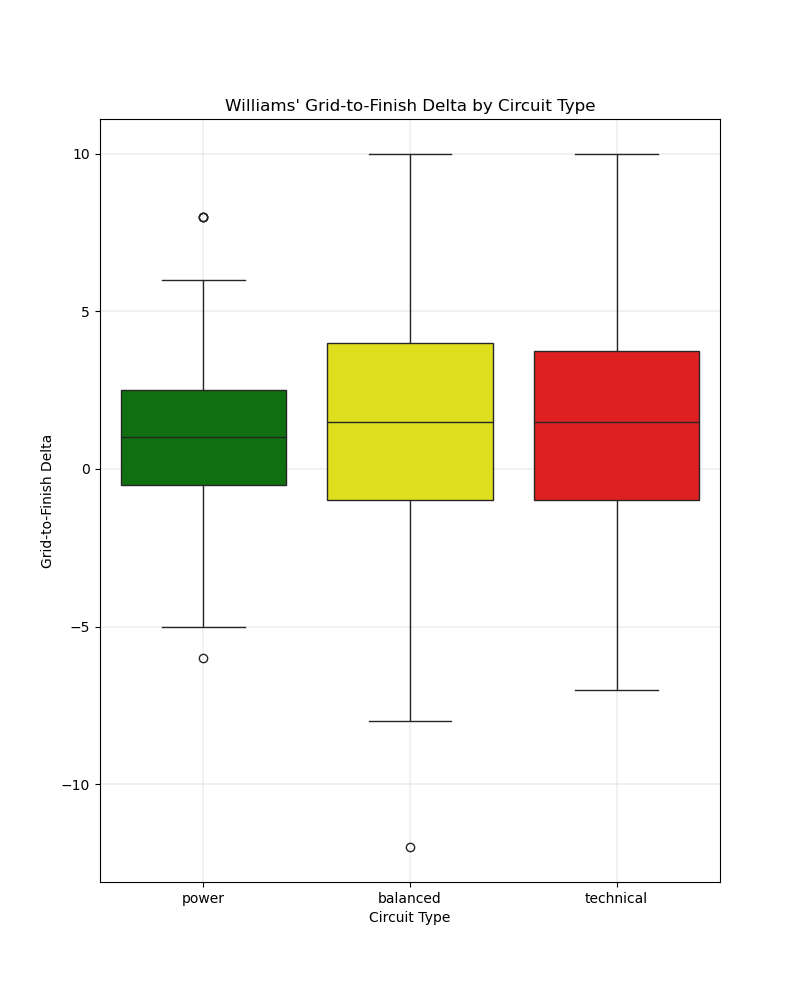
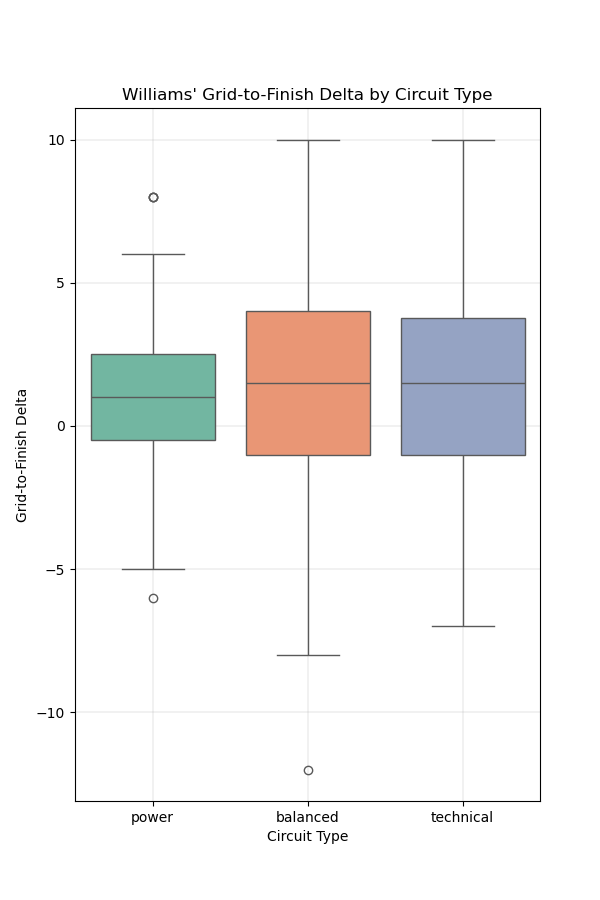
add initial eda and hypothesis tests for kpi 2

diff --git a/src/analysis2.py b/src/analysis2.py
@@ -1,6 +1,298 @@
 # load dataset used in kpi 2.1
 import pandas as pd
+import matplotlib.pyplot as plt
+import seaborn as sns
+from scipy.stats import mannwhitneyu
 
 df = pd.read_csv("/Users/frankdong/Documents/Analytics Local/williams-racing-strategies/processed_data/williams-deltas-by-sector-type.csv")
 
-print(df.head())
+print(df)
+
+"""
+EDA - let the data speak for itself through visualisations. 
+Get to know the data both visually and statistically, lay the groundwork for analysis and hypothesis testing.
+
+1. Start with core, rough visualisations. 
+Histograms, boxplots, violin plots, scatterplots, barplots.  
+
+2. Save all interesting "candidate" plots, output and save by exporting as PNG for review.
+Plots may reveal surprising outliers, odd clusters, or clear trends
+
+3. Annotate and document observations in Markdown
+Write brief markdown notes next to each PNG. Note patterns, anomalies, large/small group sizes, etc.
+
+4. Identify outliers, check sample sizes, assess normality. 
+Key for hypothesis testing - boxplots and histograms help spot outliers and skew.
+Check sample sizes with .groupby() or .value_counts() - are all groups (teams, circuits, years) large enough for statistical tests?
+
+5. Iterate and refine - select the most informative charts for polish, annotation, and inclusion in Tableau
+
+"""
+
+# -------- Steps 1, 2, 3. Rough vizs, save plots, annotate observations --------
+
+# -------------------- 1: Delta boxplot of grid delta by sector ------------------
+
+# set up new figure and size - taller boxplot helps compare heights 
+plt.figure(figsize=(9, 9))
+
+# create boxplot
+sector_delta_boxplot = sns.boxplot(
+    x = 'sector_type', 
+    y = 'sector_delta', 
+    data = df, 
+    hue = 'sector_type', 
+    palette = 'Set2', # unbiased colour set for boxplot visualisation
+    order = ['power', 'balanced', 'technical'] # order the boxes this way
+)
+
+# set title, xlabel and ylable
+sector_delta_boxplot.set_title("Williams' Qualifying Deficit to Midfield Fastest by Sector Type (Time, 2018-2019)")
+sector_delta_boxplot.set_xlabel('Sector Type')
+sector_delta_boxplot.set_ylabel('Time Deficit to Midfield Fastest (seconds)')
+
+plt.grid(linewidth = 0.25)
+plt.show()
+
+"""
+A boxplot summarizes how Williams' qualifying sector deficits—time lost 
+versus the fastest midfield team—are distributed across different sector types.
+The box captures the middle 50% of performances (the interquartile range, or IQR), 
+while the median line indicates the typical time lost for each sector type.
+Whiskers extend to include most other values, and any dots (if present) represent outlying results.
+
+Power sectors show the smallest and most consistent qualifying deficits, 
+with a tight range and a median around 0.45 seconds.
+
+Technical sectors have the second largest median deficit (about 0.6s) and the widest range, 
+highlighting differing performance outcomes and potentially greater setup challenges.
+
+Balanced sectors surprisingly display the largest variability and maximum time lost (up to ~1.4s). 
+This could reflect subjective labeling of sector types or underline William' particular struggles 
+to find the optimal balance between top speed and downforce.
+
+No outliers present. 
+"""
+
+# ------------------ 2. Percentage delta boxplot by sector ----------------
+
+# set up new figure 
+plt.figure(figsize=(9, 9))
+
+# create boxplot
+sector_percentage_delta_boxplot = sns.boxplot(
+    x = 'sector_type', 
+    y = 'pct_slower', 
+    data = df, 
+    hue = 'sector_type', 
+    palette = 'Set2', # unbiased colour set for boxplot visualisation
+    order = ['power', 'balanced', 'technical'] # order the boxes this way
+)
+
+# set title, xlabel and ylable
+sector_percentage_delta_boxplot.set_title("Williams' Qualifying Deficit to Midfield Fastest by Sector Type (%, 2018-2019)")
+sector_percentage_delta_boxplot.set_xlabel('Sector Type')
+sector_percentage_delta_boxplot.set_ylabel('% Slower to Midfield Fastest')
+
+plt.grid(linewidth = 0.25)
+plt.show()
+
+"""
+This boxplot compares qualifying sector times in relative terms compared to the fastest 
+midfield team, offering an additional perspective on where and how competitive gaps open up.
+
+Power sectors again show the smallest median relative deficit (~2%) and the tightest IQR.
+
+There is noticeable relative variability in power sectors, spanning a wide range, and an
+outlier around 4.46%. This should be kept in mind when interpreting test results or considering data cleaning.
+
+Balanced sectors now exhibit less volatility in relative terms compared to absolute times, 
+with a consistently narrow band of percentage deficits. 
+
+Technical sectors demonstrate the largest variability within the IQR. However, the gap is capped at approximately +3.5%, 
+and, in encouraging moments, Williams nearly matches the fastest midfield team with a minimum deficit near +0.15%.
+"""
+
+"""
+Both charts confirm power sectors are Williams' comparative stronghold, with the smallest
+and most stable time losses. 
+
+Technical and balanced sectors introduce greater unpredictability, and at times, larger
+performance gaps - possibly pointing to either difficulties in setup or sector labelling. 
+"""
+
+# ---------------- 3. Histograms to check for normality - absolute -----------------
+
+# plot a grid of histograms, with each of the three representing the sector type
+grid = sns.FacetGrid(
+    df, 
+    col = 'sector_type', 
+    col_order = ['power', 'balanced', 'technical'],
+    sharex = True, sharey = True, 
+    height = 4, aspect = 1
+)
+grid.map(
+    sns.histplot, 
+    'sector_delta', 
+    kde=True, 
+    stat='density', 
+    bins=15, 
+    color='royalblue'
+)
+
+# annotate counts to each plot on the grid
+for ax, sector in zip(grid.axes.flat, ['power', 'balanced', 'technical']):
+    n = df[df['sector_type'] == sector].shape[0]
+    ax.text(0.95, 0.95, f'n = {n}', ha='right', va='top', transform=ax.transAxes,
+            fontsize=12, bbox=dict(boxstyle='round', alpha=0.2))
+    ax.set_xlabel('Time Deficit (s)')
+    ax.set_ylabel('Density')
+    ax.set_title(f'{sector.capitalize()} Sectors')
+
+plt.suptitle("Williams' Sector Delta Distributions by Sector Type (s)", y=1.08, fontsize=16)
+plt.tight_layout()
+plt.show()
+
+# ------------------ 4. Histograms to check for normality - relative -------------------
+
+# plot a grid of histograms, with each of the three representing the sector type
+grid = sns.FacetGrid(
+    df, 
+    col = 'sector_type', 
+    col_order = ['power', 'balanced', 'technical'],
+    sharex = True, sharey = True, 
+    height = 4, aspect = 1
+)
+grid.map(
+    sns.histplot, 
+    'pct_slower', 
+    kde=True, 
+    stat='density', 
+    bins=15, 
+    color='royalblue'
+)
+
+# annotate counts to each plot on the grid
+for ax, sector in zip(grid.axes.flat, ['power', 'balanced', 'technical']):
+    n = df[df['sector_type'] == sector].shape[0]
+    ax.text(0.95, 0.95, f'n = {n}', ha='right', va='top', transform=ax.transAxes,
+            fontsize=12, bbox=dict(boxstyle='round', alpha=0.2))
+    ax.set_xlabel('Percent Slower (%)')
+    ax.set_ylabel('Density')
+    ax.set_title(f'{sector.capitalize()} Sectors')
+
+plt.suptitle("Williams' Sector Delta Distributions by Sector Type (%)", y=1.08, fontsize=16)
+plt.tight_layout()
+plt.show()
+
+
+"""
+For both plots, 
+    -> Sample Size: (P: 21, B: 17, T: 16). 
+        Since none exceed n = 30, we cannot rely on the Central Limit Theorem to justify
+        standard parametric tests like the t-test.
+    -> Outliers: 
+        No obvious outliers present in the first grid. 
+        Technical sectors in the second '% relative' plot seems skewed by a denser x = +3.4%.
+    -> Shape: 
+        All three sector types show some skew and multimodal patterns. 
+        Especially for balanced and technical sectors, distributions don't follow typical, 
+        classic bell-curve shapes. 
+
+Conclusion: 
+-> Mann-Whitney U test probably the best choice to compare Williams' sector time deficits, 
+particularly between technical and power sectors. 
+-> Test works well without assuming normality or large n. Also robust to small samples and 
+subtle data quirks. 
+"""
+
+# ------------------- Step 4. Perform hypothesis testing ----------------
+
+# count samples for each group at technical and power sectors
+sample_counts = df['sector_type'].value_counts()
+print("Sample sizes for each sector: \n", sample_counts)
+
+"""
+nP, nB, nT < 30.
+
+We will perform a Mann-Whitney U test - a non-parametric alternative to a t-test. 
+This ensures robustness given small sample sizes and multimodal, non-normal samples. 
+
+Note results and obserations at a 95% level. 
+"""
+
+"""
+Hypothesis Recap:
+
+Compare Williams' absolute qualifying sector deficits to the fastest midfield team  
+between technical and power sectors during 2018-2019.
+
+Groups:  
+- Power sectors: n = 21  
+- Technical sectors: n = 16  
+- Two independent populations representing sector types.
+
+We are testing whether the deficits in technical sectors are significantly worse (larger) than those in power sectors,  
+focusing on one direction because of the hypothesis that technical sectors reveal greater performance limitations.
+
+Test type:  
+A two-sample, independent, one-tailed test to determine if  
+Williams' mean absolute deficit in technical sectors is significantly greater than in power sectors.
+
+Hypotheses:  
+- Null (H0): μ_technical ≤ μ_power (Deficits in technical sectors are not greater than in power sectors)  
+- Alternative (H1): μ_technical > μ_power (Deficits in technical sectors are greater than in power sectors)
+"""
+
+# --------- 1. absolute --------
+
+# 1. extract relevant data for the test
+technical_deficits = df[df['sector_type'] == 'technical']['sector_delta']
+power_deficits = df[df['sector_type'] == 'power']['sector_delta']
+
+# 2. run the mann-whitney u test
+m_stat, p_value = mannwhitneyu(technical_deficits, power_deficits, alternative = "greater")
+
+print("\nMann-Whitney U Test for technical vs. power absolute sector deficits at 95% confidence interval.\n")
+print(f"Mann-Whitney U statistic: {m_stat:.3f}")
+print(f"One-tailed p-value: {p_value:.4f}")
+
+alpha = 0.05 # 95% confidence level
+
+if p_value < alpha:
+    print("\nReject the null hypothesis (H0): Williams' qualifying deficit in technical sectors is significantly greater than in power sectors.")
+else: # p_value_one_tailed >= alpha
+    print("\nFail to reject the null hypothesis (H0): There is no significant evidence that Williams' qualifying deficit in technical sectors is greater than in power sectors.")
+
+"""
+While our data sample suggests a trend towards larger deficits in technical sectors, the current sample size
+and variability mean we cannot confidently state that Williams struggles more in technical sectors compared to 
+power sectors based on qualifying sector times. 
+
+This invites further analysis, with additional data, alternative metrics, or complementary performance angles, 
+like driver experience or consistency - which is explored in SQ/KPI 3. 
+"""
+
+# --------- 2. Relative ----------
+
+# 1. Filter out the outlier
+df_pct = df[df['pct_slower'] < 4.471]
+
+# 2. Extract relevant data
+pct_technical = df_pct[df_pct['sector_type'] == 'technical']['pct_slower']
+pct_power = df_pct[df_pct['sector_type'] == 'power']['pct_slower']
+
+# 3. Perform Mann-Whitney U Test (one-tailed, technical > power)
+m_stat, p_value = mannwhitneyu(pct_technical, pct_power, alternative="greater")
+
+# 4. Print results
+print("\n\nMann-Whitney U Test for technical vs. power '% slower' at 95% confidence interval.\n")
+print(f"Mann-Whitney U statistic: {m_stat:.3f}")
+print(f"One-tailed p-value: {p_value:.4f}")
+
+alpha = 0.05  # significance level
+
+if p_value < alpha:
+    print("\n✅ Reject the null hypothesis (H0): Williams was significantly slower in technical sectors (as % behind fastest midfield).")
+else:
+    print("\n❌ Fail to reject the null hypothesis (H0): No significant evidence Williams was slower in technical sectors (as % behind fastest midfield).")

diff --git a/src/analysis1.py b/src/analysis1.py
@@ -123,7 +123,7 @@ vs_rivals_boxplot = sns.boxplot(
     palette = group_palette
 ) 
 
-vs_rivals_boxplot.set_title("Grid-to-FInish Delta: Williams vs. Other Midfield Teams")
+vs_rivals_boxplot.set_title("Grid-to-Finish Delta: Williams vs. Other Midfield Teams")
 vs_rivals_boxplot.set_xlabel("Team Group")
 vs_rivals_boxplot.set_ylabel("Grid-to-Finish Delta")
 
@@ -171,20 +171,13 @@ plot will display williams' grid-to-finish delta across the three circuit types,
 # setup a new figure and set its size - a taller boxplot helps us compare heights
 plt.figure(figsize=(6, 9)) 
 
-# colour palette for the boxplot
-circuit_palette = {
-    'power': 'green',
-    'balanced': 'orange', 
-    'technical': 'red'
-}
-
 # create boxplot
 circuit_boxplot = sns.boxplot( 
     x='circuit_type',
     y='grid_delta',
     data = df[df['is_williams'] == True], # filter williams only results
     hue = 'circuit_type',
-    palette = circuit_palette
+    palette = 'Set2'
 )
 
 # set title, xlabel and ylable
@@ -687,13 +680,13 @@ sns.lineplot(
     linewidth = 3 # slightly thicker line
 )
 
-# now plot Williams' performance per circuit type on top, using circuit_type palette:
+# now plot Williams' performance per circuit type on top, using Set2 palette:
 sns.lineplot(
     data=df_williams,
     x="gp_year",
     y="grid_delta",
     hue="circuit_type",
-    palette=circuit_palette,
+    palette='Set2',
     estimator='median',
     legend="full",
     errorbar=None,
